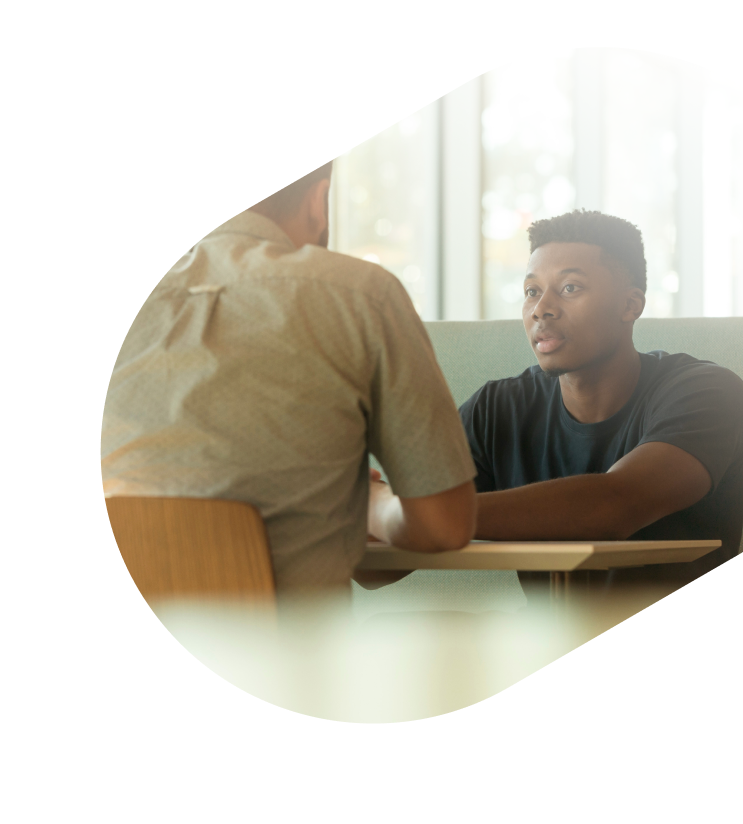
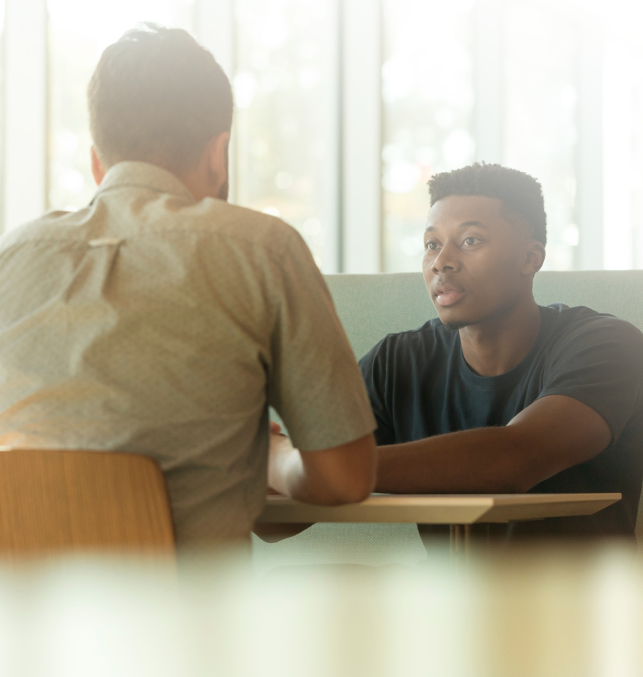
changing bg and adding first section

diff --git a/index.html b/index.html
@@ -13,33 +13,60 @@
 </head>
 
 <body>
-    <header class="header">
-        <div class="container">
-            <div class="header__content">
-                <div class="logo">Thrivetalk</div>
-            </div>
-            <button class="contact-btn">Contact us</button>
+
+<header>
+    <div class="header__background">
+        <div class="header__background-item"></div>
+        <div class="header__background-photo">
+            <img class="header__background-personPhoto" alt="" src="./img/guys.png">
         </div>
-    </header>
-
-
-    <section class="thrivetalk">
-        <div class="thrivetalk__background">
-            <div class="container">
-                <h2 class="thrivetalk__name">Thrivetalk</h2>
-                <h1 class="thrivetalk__title">HELPING YOU THRIVE IN ALL AREAS OF LIFE</h1>
-                <div class="thrivetalk__description">Our highly talented therapists can help you with a range of issues including relationships, sex, PTSD, depression, social anxiety, or even just caring for yourself more.</div>
-                <div class="thrivetalk__buttons">
-                    <button class="thrivetalk__btn-who">who am i</button>
-                    <button class="thrivetalk__btn-what">what do i do</button>
+    </div>
+    <div class="container">
+        <div class="header__content">
+            <div class="logo">
+                <a href="/">Thrivetalk</a>
+            </div>
+            <nav class="header__nav">
+                <ul class="menu">
+                    <li class="menu__item menu__item_active">
+                        <a href="#home">Home</a>
+                    </li>
+                    <li class="menu__item">
+                        <a href="#about">About</a>
+                    </li>
+                    <li class="menu__item">
+                        <a href="#services">Services</a>
+                    </li>
+                    <li class="menu__item">
+                        <a href="#blog">Blog</a>
+                    </li>
+                </ul>
+            </nav>
+            <button class="btn contact-btn">
+                <a href="#contact-us">Contact us</a>
+            </button>
+        </div>
+        <section class="thrivetalk">
+            <div class="thrivetalk__content">
+                <div class="container">
+                    <h2 class="thrivetalk__name">Thrivetalk</h2>
+                    <h1 class="thrivetalk__title">HELPING YOU THRIVE IN ALL AREAS OF LIFE</h1>
+                    <div class="thrivetalk__description">Our highly talented therapists can help you with a range of issues including relationships, sex, PTSD, depression, social anxiety, or even just caring for yourself more.</div>
+                    <div class="thrivetalk__buttons">                    
+                        <button class="btn thrivetalk__btn-who">
+                            <a href="/">who am i</a>
+                        </button>
+                        <button class="btn thrivetalk__btn-what">
+                            <a href="/">what do i do</a>
+                        </button>
+                    </div>
                 </div>
             </div>
-            </div>
         </div>
-    </section>
+    </div>
+</header>
 
-
+<section></section>
 
 </body>
-
 </html>

diff --git a/css/main.css b/css/main.css
@@ -4,8 +4,12 @@ body {
     font-size: 24px;
     line-height: normal;
     font-style: normal;
-    /* line-height: 1.2em; */
     font-family: 'Larsseit', sans-serif;
+}
+
+header {
+    position: relative;
+    overflow: hidden;
 }
 
 h1, h2, h4 {
@@ -14,8 +18,20 @@ h1, h2, h4 {
 
 .container {
     width: 1200px;
-    margin: 0 auto;
+    margin: auto;
 }
+
+.btn {
+    font-size: 16px;
+    text-transform: uppercase;
+    font-weight: 700;
+}
+
+.btn a {
+    padding: 20px 30px;
+}
+
+/* non reusable components */
 
 .logo {
     color: #62D0DF;
@@ -23,22 +39,85 @@ h1, h2, h4 {
     letter-spacing: -0.84px;
 }
 
+.header__background {
+    position: absolute;
+    background: #F4F9E2;
+    height: 100%;
+    width: 75%;
+    top: 0;
+    z-index: -1;
+}
+
+.header__background-item {
+    width: 807.707px;
+    height: 544.933px;
+    transform: rotate(120deg);
+    border-radius: 312.159px;
+    background: #EDFDFF;
+    position: absolute;
+    top: 5%;
+    left: 70%;
+}
+  
+.header__background-photo {
+    width: 807.707px;
+    height: 544.933px;
+    overflow: hidden;
+    border-radius: 312.159px;
+    transform: rotate(150deg);
+    position: absolute;
+    top: 15%;
+    left: 70%;
+}
+  
+.header__background-personPhoto {
+    width: 100%;
+    transform: rotate(-150deg);
+    position: absolute;
+    top:-25%;
+}
+
+.header__content {
+    position: relative;
+    z-index: 2;
+    display: flex;
+    align-items: center;
+    padding-top: 27px;
+    justify-content: space-between;
+}
+
+.menu {
+    display: flex;
+}
+
+.menu__item {
+    font-size: 14px;
+    margin-right: 25px;
+    font-weight: 300;
+}
+
+.menu__item_active a {
+    font-weight: 500;
+    border-bottom: solid 1.5px #22356F;
+}
+
 .contact-btn {
     background-color: #62D0DF;
     color: #fff;
-    text-transform: uppercase;
     font-size: 14px;
-    font-weight: 700;
-    padding: 20px 30px;
     border-radius: 50px;
 }
 
-
-.thrivetalk__background {
-    background-color: #F4F9E2;
-    /* width: 1200px; */
+.contact-btn:hover {
+    background-color: #fff;
+    color: #62D0DF;
+    outline: solid;
 }
 
+.thrivetalk {
+    padding-top: 164px;
+    padding-bottom: 75px;
+}
 
 .thrivetalk__name {
     color: #62D0DF;
@@ -54,6 +133,7 @@ h1, h2, h4 {
     line-height: 120%;
     letter-spacing: -1.68px;
     margin-bottom: 75px;
+    text-transform: uppercase;
 }
 
 .thrivetalk__description {
@@ -63,31 +143,21 @@ h1, h2, h4 {
     margin-bottom: 65px;
 }
 
-.thrivetalk__buttons {
-    font-size: 16px;
-}
-
 .thrivetalk__btn-who {
     letter-spacing: 1.6px;
-    font-weight: 700;
-    text-transform: uppercase;
     color: #fff;
     background-color: #F9B640;
-    padding: 20px 30px;
 }
 
 .thrivetalk__btn-who:hover {
     color: #F9B640;
-    background-color: #fff;
+    background-color: #F4F9E2;
     outline: solid;
 }
 
 .thrivetalk__btn-what {
     letter-spacing: 1.6px;
-    font-weight: 700;
-    text-transform: uppercase;
     color: #F9B640;
-    padding: 20px 30px;
 }
 
 .thrivetalk__btn-what:hover {
